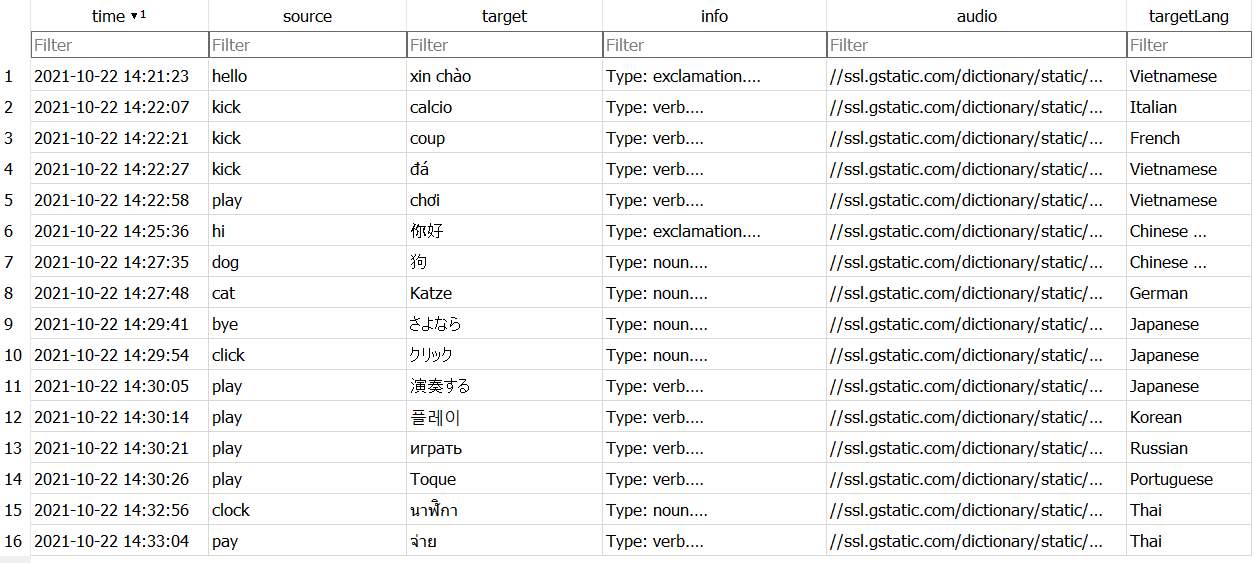
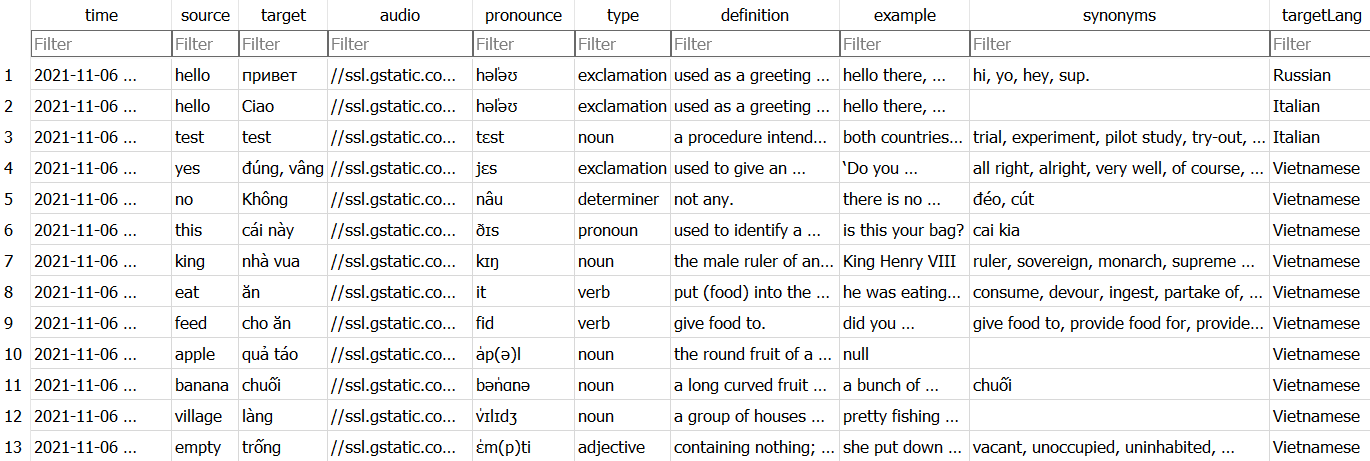
edit readme

Changed region(s): [[0.0, 0.0, 1.0, 1.0]]

diff --git a/README.md b/README.md
@@ -61,6 +61,11 @@ One word can have multiple bookmark with different language.
 
 ![bm](demo/bookmark.png)
 
+### Edit Word
+Edit word, pronunciation, definition, synonym, example, ... 
+
+![GUI Demo](demo/edit.png)
+
 ## Translate API 
 Results obtained after calling Translate API
 
@@ -117,10 +122,15 @@ Results obtained after calling Translate API
   CREATE TABLE "bookmark" (
 	"time"	TEXT,
 	"source"	TEXT,
-	"target"	TEXT, 
-    "info"	TEXT, 
-    "audio"	TEXT, 
-    "targetLang"	TEXT)
+	"target"	TEXT,
+	"audio" TEXT,
+	"pronounce"	TEXT,
+	"type"	TEXT,
+	"definition"	TEXT,
+	"example"	TEXT,
+	"synonyms"	TEXT,
+	"targetLang"	TEXT
+  );
   ```
   
   ![db](demo/sql.png)
